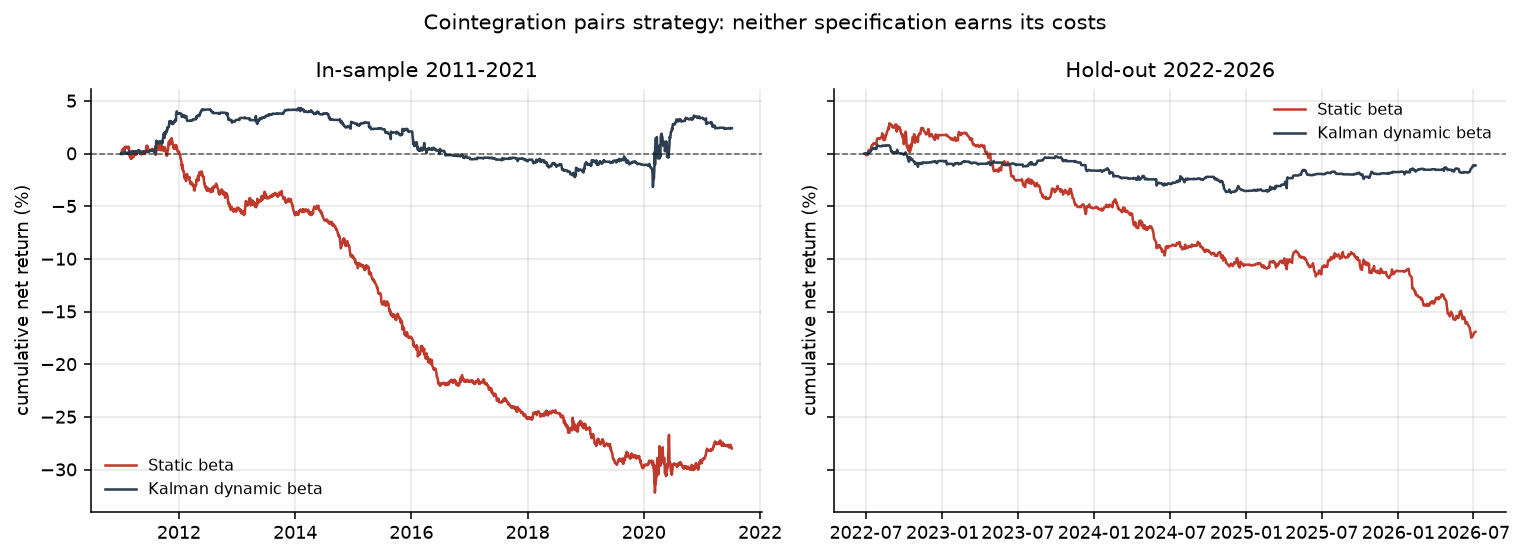
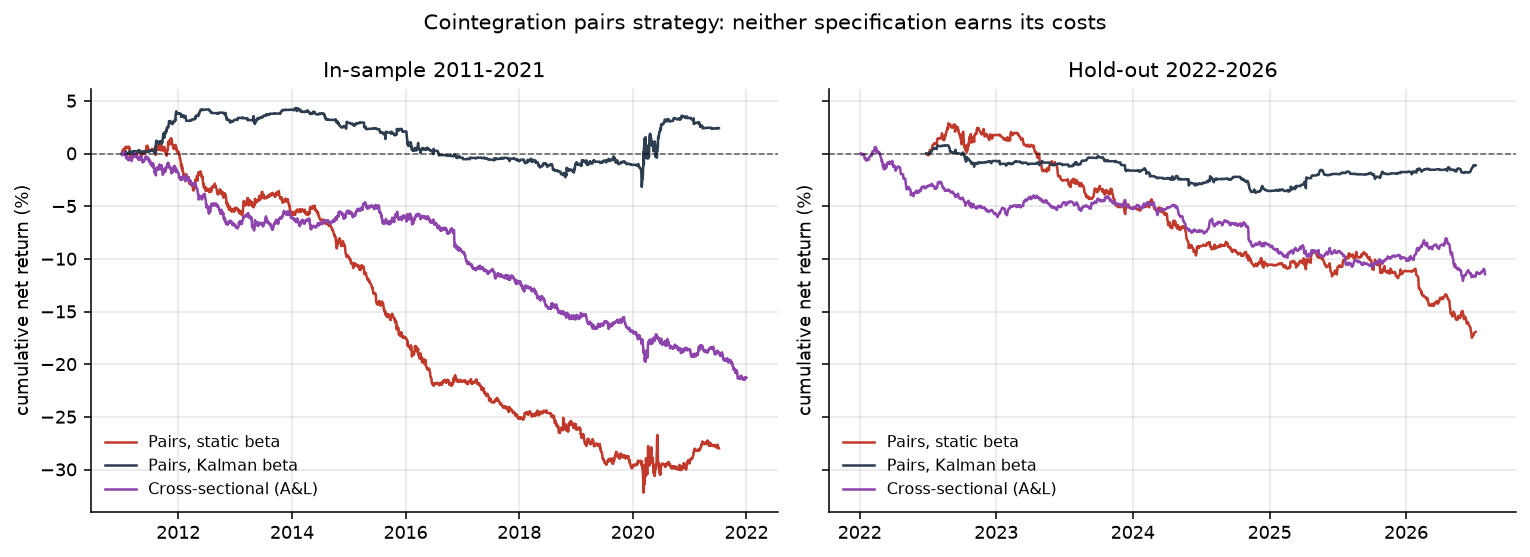
Pre-publication polish
- Equity-curve figure now includes the cross-sectional strategy
- README: breakeven cost of the significant anomaly (2.1 bps/side IS,
  1.3 bps OOS) as a capacity statement; reproduce section covers step 06
- MIT LICENSE

diff --git a/scripts/05_figures.py b/scripts/05_figures.py
@@ -47,13 +47,17 @@ def fig_equity_curves() -> None:
                                ("In-sample 2011-2021", "Hold-out 2022-2026")):
         static = _equity(config.TABLES / f"daily_{span}.csv")
         kalman = _equity(config.TABLES / f"daily_{span}_kalman.csv")
+        crosssec = _equity(config.TABLES / f"daily_{span}_crosssec.csv")
 
         if static is not None:
             ax.plot(static.index, (static - 1) * 100, lw=1.3,
-                    color="#c0392b", label="Static beta")
+                    color="#c0392b", label="Pairs, static beta")
         if kalman is not None:
             ax.plot(kalman.index, (kalman - 1) * 100, lw=1.3,
-                    color="#2c3e50", label="Kalman dynamic beta")
+                    color="#2c3e50", label="Pairs, Kalman beta")
+        if crosssec is not None:
+            ax.plot(crosssec.index, (crosssec - 1) * 100, lw=1.3,
+                    color="#8e44ad", label="Cross-sectional (A&L)")
 
         ax.axhline(0, color="black", lw=0.8, ls="--", alpha=0.6)
         ax.set_title(title)

diff --git a/README.md b/README.md
@@ -88,6 +88,13 @@ significant span — and +0.82% out-of-sample (*t* = 0.67). Costs of ~3.2%
 annualised make both spans lose money net. **H2 rejected** on the out-of-sample
 criterion, and reported as such.
 
+Because costs scale linearly with the assumed rate, the data imply a
+**breakeven cost of 2.1 bps per side in-sample and 1.3 bps out-of-sample**
+(against the 5 bps assumed here). The strategy is only viable for an executor
+whose all-in costs sit near the institutional floor — a quantitative statement
+of *who* can still trade this anomaly, and why it persists: the marginal
+arbitrageur able to harvest it is already in it.
+
 ![Look-ahead bias](results/figures/02_lookahead_bias.png)
 
 ---
@@ -164,8 +171,12 @@ python scripts/04_diagnostics.py
 python scripts/05_figures.py
 ```
 
-Add `--kalman` to step 3 for the pre-registered extension, and `--span oos` for
-the hold-out.
+```bash
+python scripts/06_crosssec.py --span is
+```
+
+Add `--kalman` to step 3 for the first pre-registered extension, and
+`--span oos` anywhere for the hold-out.
 
 ---
 
